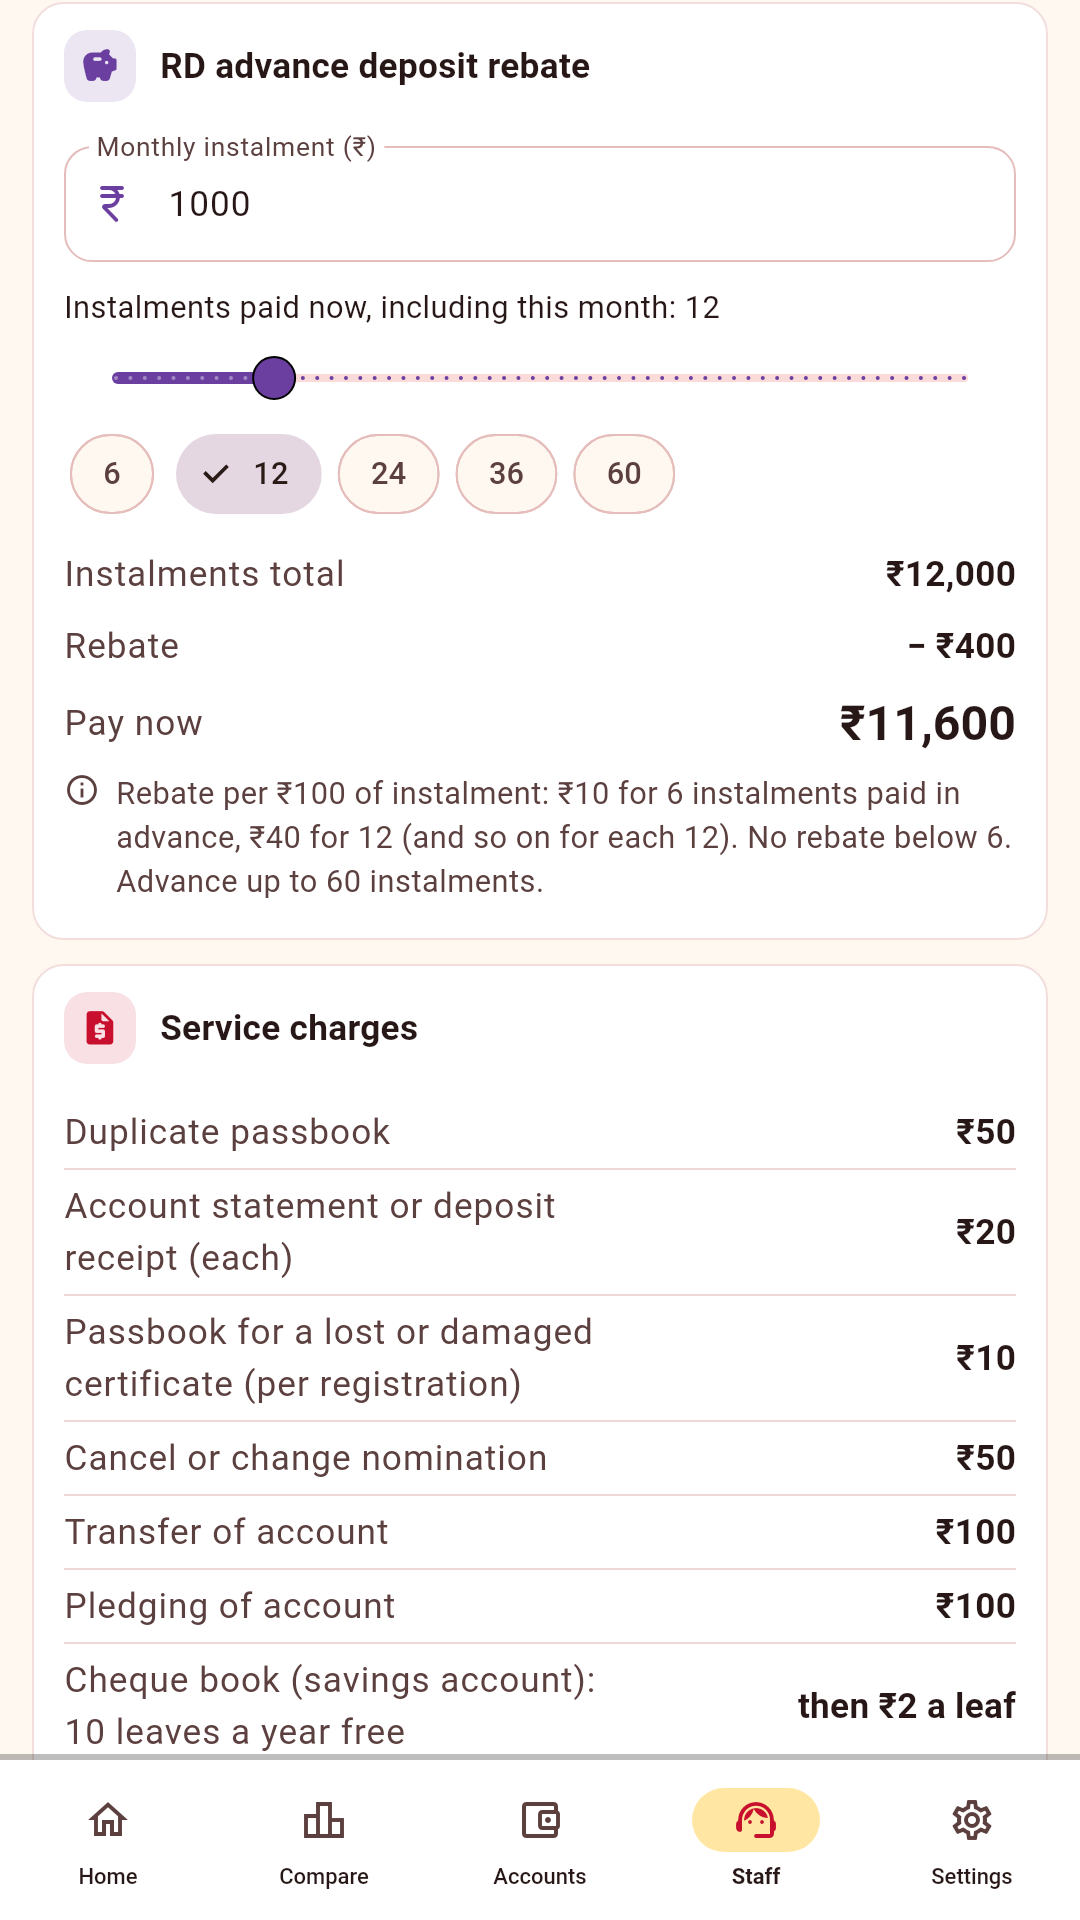
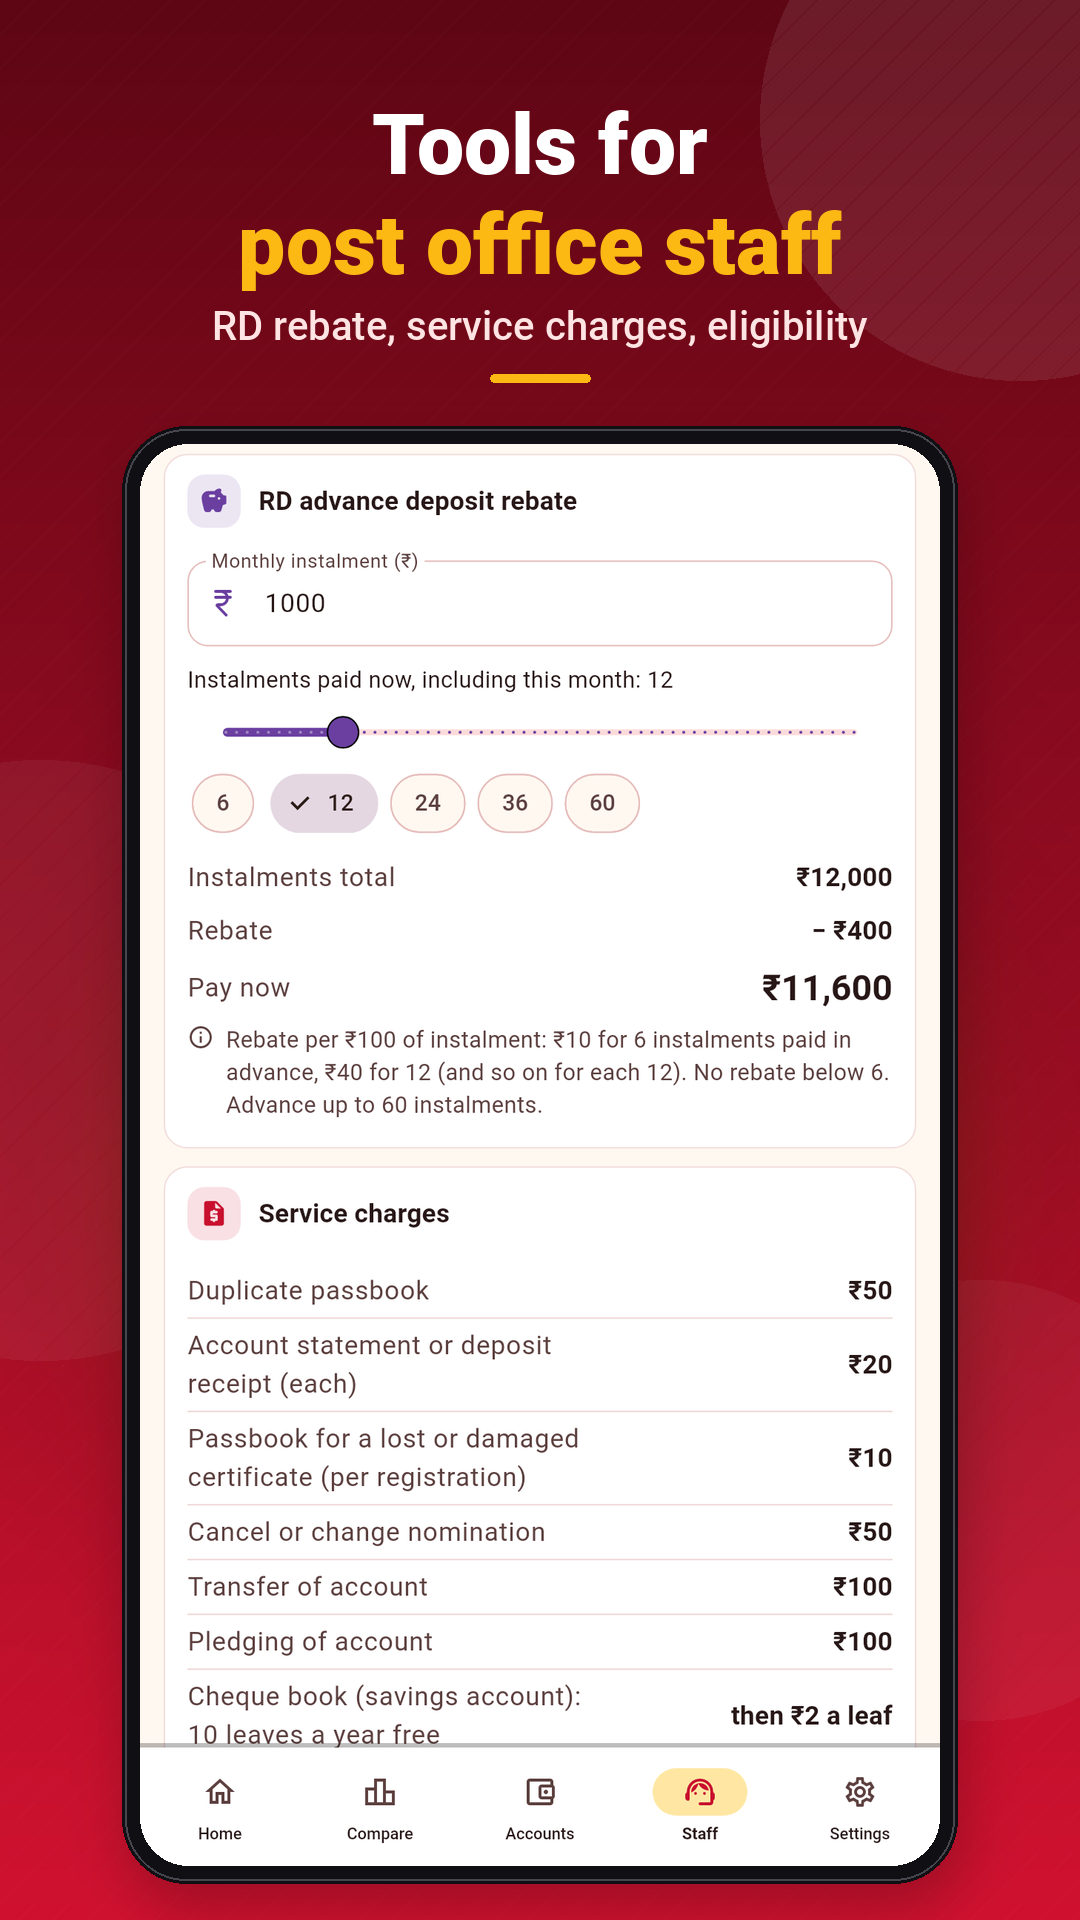
Store: screenshots with headlines in a phone frame
Raw app screens move to store/screenshots/raw/; the new
tool/make_store_screenshots.py adds a headline, a short line and a phone
frame on the brand gradient (1080x1920). The store test scrolls without
dragging, so it no longer taps a card by mistake.

Claude-Session: https://claude.ai/code/session_012VZRKny5dAwRHgm86XLQ6S

diff --git a/tool/screenshots/store_test.dart b/tool/screenshots/store_test.dart
@@ -3,7 +3,7 @@
 //   FLUTTER_ROOT=<sdk> flutter test tool/screenshots/store_test.dart
 //
 // Needs Roboto (Flutter SDK cache) and Noto Sans for the Indian scripts
-// (apt install fonts-noto-core). Output: store/screenshots/en/*.png
+// (apt install fonts-noto-core). Output: store/screenshots/raw/*.png (then python3 tool/make_store_screenshots.py)
 // ignore_for_file: invalid_use_of_visible_for_testing_member
 
 import 'dart:io';
@@ -39,7 +39,7 @@ void main() {
   final sdk = Platform.environment['FLUTTER_ROOT'] ?? '/opt/flutter';
   final mf = '$sdk/bin/cache/artifacts/material_fonts';
   const noto = '/usr/share/fonts/truetype/noto';
-  const out = 'store/screenshots/en';
+  const out = 'store/screenshots/raw';
   const scripts = [
     'Kannada',
     'Devanagari',
@@ -127,14 +127,20 @@ void main() {
     }
 
     Finder list() => find.byType(Scrollable).last;
-    Future<void> scrollTo(String text, {double up = 0}) async {
+    // Brings [text] near the top of the page (a drag could tap a card).
+    Future<void> scrollTo(String text, {double at = 0.03}) async {
       await tester.scrollUntilVisible(
         find.text(text).last,
         200,
         scrollable: list(),
       );
       await settle();
-      if (up != 0) await tester.drag(list(), Offset(0, up));
+      await tester.runAsync(() async {});
+      Scrollable.ensureVisible(
+        tester.element(find.text(text).last),
+        alignment: at,
+      );
+      await settle();
     }
 
     final nav = tester.state<NavigatorState>(find.byType(Navigator).first);
@@ -164,7 +170,7 @@ void main() {
       ),
     );
     await settle();
-    await scrollTo('Suggestions', up: 90);
+    await scrollTo('Suggestions');
     await shot('3_suggestions');
     nav.pop();
     await settle();
@@ -177,9 +183,9 @@ void main() {
 
     await tester.tap(find.byIcon(Icons.support_agent_outlined).last);
     await settle();
-    await scrollTo('RD advance deposit rebate', up: 40);
+    await scrollTo('RD advance deposit rebate');
     await shot('6_rd_rebate');
-    await scrollTo('Official forms', up: 40);
+    await scrollTo('Official forms');
     await shot('7_forms');
 
     await tester.tap(find.byIcon(Icons.home_outlined).last);

diff --git a/tool/make_store_screenshots.py b/tool/make_store_screenshots.py
@@ -1,0 +1,122 @@
+"""Play Store phone screenshots with headlines: python3 tool/make_store_screenshots.py
+
+Reads the raw app screens in store/screenshots/raw/ (made by
+tool/screenshots/store_test.dart) and writes 1080x1920 images to
+store/screenshots/en/: a headline, a short line and the screen in a phone.
+"""
+from PIL import Image, ImageDraw, ImageFilter, ImageFont
+
+W, H = 1080, 1920
+MF = '/opt/flutter-sdk/flutter/bin/cache/artifacts/material_fonts'
+NOTO = '/usr/share/fonts/truetype/noto'
+RED, DEEP = (0xD0, 0x12, 0x30), (0x5E, 0x06, 0x14)
+YELLOW, INK = (0xFD, 0xB9, 0x13), (0x2B, 0x1B, 0x17)
+
+# (raw file, headline with the *highlighted* words, line under it)
+SLIDES = [
+    ('1_home', 'All Post Office\n*schemes* in one app', 'Latest rates for all 13 savings schemes'),
+    ('2_result', 'Know your\n*maturity amount*', 'Interest, maturity date and growth in seconds'),
+    ('3_suggestions', 'Smart *suggestions*\nto earn more', 'Put MIS interest into an RD, find a better scheme'),
+    ('4_compare', 'Compare *every*\nscheme', 'See the highest return for your amount'),
+    ('5_accounts', 'Track your\n*accounts*', 'Maturity countdown and reminders'),
+    ('6_rd_rebate', 'Tools for\n*post office staff*', 'RD rebate, service charges, eligibility'),
+    ('7_forms', 'Official forms\nin *one tap*', 'Download, or send to a customer on WhatsApp'),
+    ('8_languages', 'Use it in\n*your language*', None),
+]
+
+
+def font(name, size, base=MF):
+    return ImageFont.truetype(f'{base}/{name}', size, layout_engine=ImageFont.Layout.RAQM)
+
+
+def background(dark):
+    top, bot = (DEEP, RED) if dark else (RED, DEEP)
+    g = Image.new('RGB', (1, H))
+    for y in range(H):
+        t = y / H
+        g.putpixel((0, y), tuple(int(top[i] + (bot[i] - top[i]) * t) for i in range(3)))
+    img = g.resize((W, H)).convert('RGBA')
+    deco = Image.new('RGBA', (W, H), (0, 0, 0, 0))
+    d = ImageDraw.Draw(deco)
+    for cx, cy, r, a in [(1020, 120, 260, 22), (40, 1060, 300, 14), (980, 1500, 220, 12)]:
+        d.ellipse((cx - r, cy - r, cx + r, cy + r), fill=(255, 255, 255, a))
+    for k in range(-H, W, 34):
+        d.line((k, H, k + H, 0), fill=(255, 255, 255, 6), width=1)
+    img = Image.alpha_composite(img, deco)
+    glow = Image.new('RGBA', (W, H), (0, 0, 0, 0))
+    ImageDraw.Draw(glow).ellipse((140, 760, 940, 1600), fill=(*YELLOW, 95))
+    return Image.alpha_composite(img, glow.filter(ImageFilter.GaussianBlur(120)))
+
+
+def headline(d, text, y):
+    """Centred lines; *words* in yellow."""
+    f = font('Roboto-Black.ttf', 84)
+    for line in text.split('\n'):
+        parts = line.split('*')
+        total = sum(d.textlength(p, font=f) for p in parts)
+        x = (W - total) / 2
+        for i, p in enumerate(parts):
+            d.text((x, y), p, font=f, fill=YELLOW if i % 2 else 'white')
+            x += d.textlength(p, font=f)
+        y += 100
+    return y
+
+
+def phone(path, top):
+    sw = 800
+    shot = Image.open(path).convert('RGB')
+    sh = int(shot.height * sw / shot.width)
+    shot = shot.resize((sw, sh), Image.LANCZOS)
+    pad, r = 18, 64
+    pw, ph = sw + 2 * pad, sh + 2 * pad
+    frame = Image.new('RGBA', (pw, ph), (0, 0, 0, 0))
+    fd = ImageDraw.Draw(frame)
+    fd.rounded_rectangle((0, 0, pw - 1, ph - 1), r, fill=(16, 16, 20))
+    fd.rounded_rectangle((3, 3, pw - 4, ph - 4), r - 3, outline=(70, 70, 78), width=2)
+    m = Image.new('L', (sw, sh), 0)
+    ImageDraw.Draw(m).rounded_rectangle((0, 0, sw - 1, sh - 1), r - 16, fill=255)
+    frame.paste(shot, (pad, pad), m)
+    x = (W - pw) // 2
+    layer = Image.new('RGBA', (W, H + ph), (0, 0, 0, 0))
+    shadow = Image.new('RGBA', (pw, ph), (0, 0, 0, 0))
+    ImageDraw.Draw(shadow).rounded_rectangle((0, 0, pw - 1, ph - 1), r, fill=(0, 0, 0, 120))
+    layer.paste(shadow, (x + 6, top + 26), shadow)
+    layer = layer.filter(ImageFilter.GaussianBlur(26))
+    layer.alpha_composite(frame, (x, top))
+    return layer.crop((0, 0, W, H))
+
+
+def languages(d, y):
+    names = [('English', 'Roboto-Bold.ttf', MF), ('ಕನ್ನಡ', 'NotoSansKannada-Bold.ttf', NOTO),
+             ('हिन्दी', 'NotoSansDevanagari-Bold.ttf', NOTO), ('தமிழ்', 'NotoSansTamil-Bold.ttf', NOTO),
+             ('తెలుగు', 'NotoSansTelugu-Bold.ttf', NOTO), ('বাংলা', 'NotoSansBengali-Bold.ttf', NOTO),
+             ('मराठी', 'NotoSansDevanagari-Bold.ttf', NOTO), ('ગુજરાતી', 'NotoSansGujarati-Bold.ttf', NOTO),
+             ('മലയാളം', 'NotoSansMalayalam-Bold.ttf', NOTO), ('ଓଡ଼ିଆ', 'NotoSansOriya-Bold.ttf', NOTO),
+             ('ਪੰਜਾਬੀ', 'NotoSansGurmukhi-Bold.ttf', NOTO)]
+    rows = [names[:4], names[4:8], names[8:]]
+    for row in rows:
+        fs = [font(n, 34, b) for _, n, b in row]
+        ws = [d.textlength(t, font=f) + 44 for (t, _, _), f in zip(row, fs)]
+        x = (W - sum(ws) - 14 * (len(row) - 1)) / 2
+        for (t, _, _), f, w in zip(row, fs, ws):
+            d.rounded_rectangle((x, y, x + w, y + 58), 29, fill=YELLOW)
+            d.text((x + w / 2, y + 29), t, font=f, fill=INK, anchor='mm')
+            x += w + 14
+        y += 72
+    return y
+
+
+for i, (name, title, sub) in enumerate(SLIDES):
+    img = background(dark=i % 2 == 1)
+    d = ImageDraw.Draw(img)
+    y = headline(d, title, 96)
+    if sub:
+        f = font('Roboto-Medium.ttf', 40)
+        d.text((W / 2, y + 30), sub, font=f, fill=(255, 228, 228), anchor='mm')
+        y += 70
+    else:
+        y = languages(d, y + 6) - 10
+    d.rounded_rectangle((W / 2 - 50, y + 8, W / 2 + 50, y + 16), 4, fill=YELLOW)
+    img = Image.alpha_composite(img, phone(f'store/screenshots/raw/{name}.png', y + 60))
+    img.convert('RGB').save(f'store/screenshots/en/{name}.png')
+    print(f'store/screenshots/en/{name}.png')

diff --git a/tool/make_feature_graphic.py b/tool/make_feature_graphic.py
@@ -1,6 +1,6 @@
 """Play Store feature graphic (1024x500): python3 tool/make_feature_graphic.py
 
-Uses store/icon_512.png and store/screenshots/en/{2_result,4_compare}.png.
+Uses store/icon_512.png and store/screenshots/raw/{2_result,4_compare}.png.
 """
 import math
 
@@ -68,8 +68,8 @@ def place(base, ph, center, angle):
     return base
 
 
-img = place(img, phone('store/screenshots/en/4_compare.png', 214), (705, 285), 9)
-img = place(img, phone('store/screenshots/en/2_result.png', 236), (868, 262), -6)
+img = place(img, phone('store/screenshots/raw/4_compare.png', 214), (705, 285), 9)
+img = place(img, phone('store/screenshots/raw/2_result.png', 236), (868, 262), -6)
 
 # Left: icon, name, tagline, features, languages.
 d = ImageDraw.Draw(img)

diff --git a/store/PLAY_STORE_GUIDE.md b/store/PLAY_STORE_GUIDE.md
@@ -15,7 +15,7 @@ matches the meaning below.
 | Kannada listing | `store/listing/kn-IN/` (add language **Kannada – kn-IN**) |
 | App icon 512×512 | `store/icon_512.png` |
 | Feature graphic 1024×500 | `store/feature_graphic.png` |
-| Phone screenshots (2–8) | `store/screenshots/en/1_home.png` … `8_languages.png` (1080×1920) |
+| Phone screenshots (2–8) | `store/screenshots/en/1_home.png` … `8_languages.png` (1080×1920, with headlines). To remake after app changes: `flutter test tool/screenshots/store_test.dart`, then `python3 tool/make_store_screenshots.py` and `python3 tool/make_feature_graphic.py` |
 | Privacy policy URL | https://github.com/maheshraikg/po-calculator/blob/main/PRIVACY.md |
 | Contact e-mail | maheshraikg@gmail.com |
 | Upload key | `upload.jks` in your private Google Drive folder (SHA-256 `7B:26:4D:90:…:94:0F:C1:63`) |
